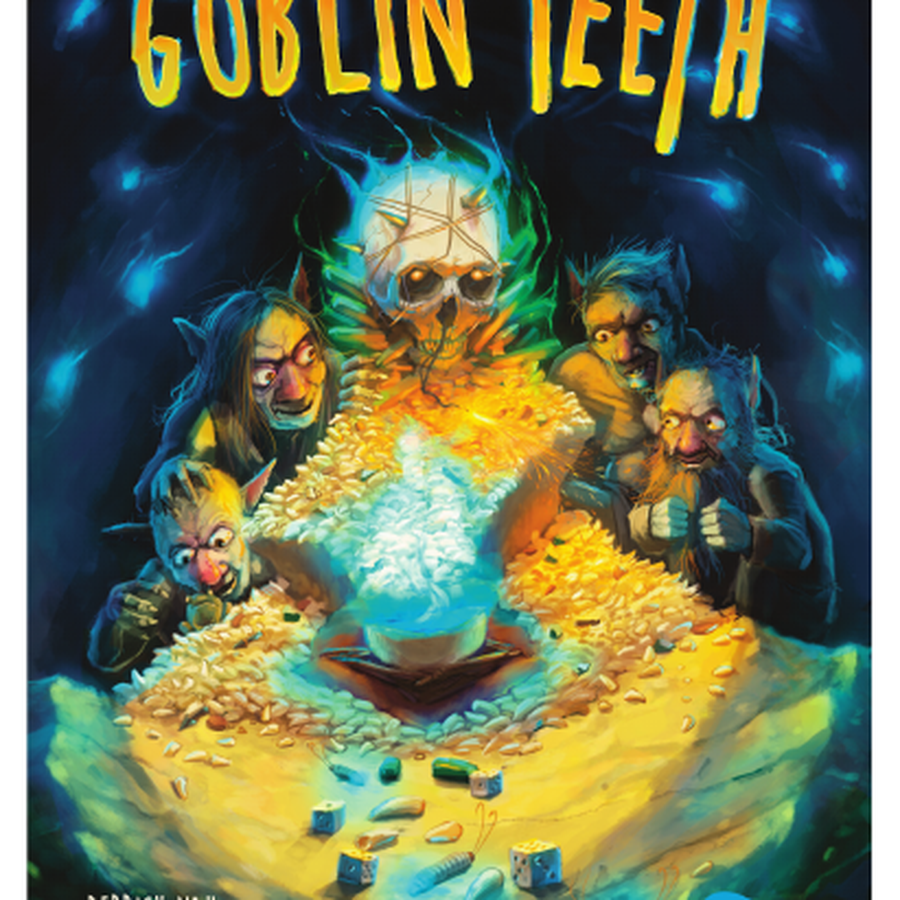
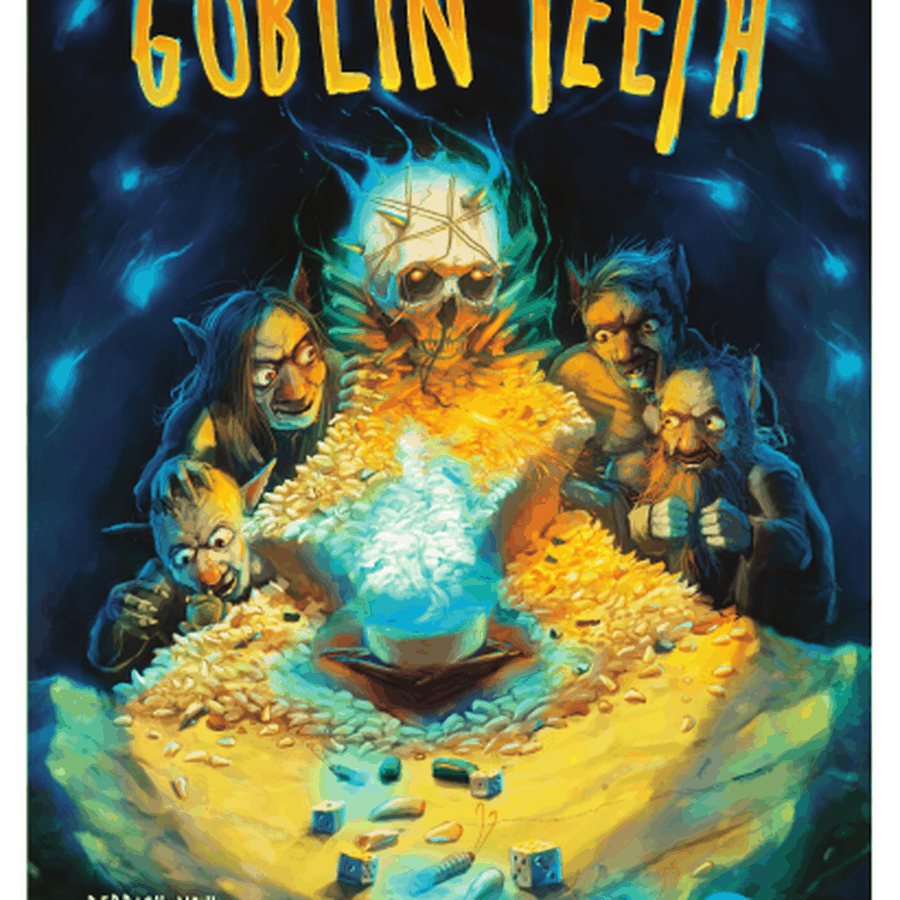
Audit SEO : titres, sitemap, og:image, llms.txt et textes des hubs corrigés
- Titres : le suffixe « | Print & Play Game » n'est ajouté que s'il tient dans 60 caractères (344 titres trop longs, il en reste 7 à 61–64).
- Sitemap : lastmod ne prend plus la date du build ; les listes prennent la date de leur élément le plus récent, les pages fixes n'en ont plus.
- og:image sur les fiches jeux, puzzles, règles et articles ; données structurées des puzzles et des règles complétées (description, image, date).
- Meta descriptions des pages créateurs coupées sur un mot entier.
- Nouveau /llms.txt généré depuis la liste blanche des hubs.
- noindex sur printandplaygame.pages.dev et les URL de prévisualisation.
- Bingo : le conseil d'impression ne dit plus de jeter la page des cartes d'appel ; les modèles vierges n'affichent plus « Answers: Included » (fiches et générateur).
- Hubs : onze affirmations contredites par les données corrigées (âges Halloween et labyrinthes, 172 points, joueurs des party games, plateaux, dés…).
- 12 couvertures de 700 Ko à 1 Mo recompressées (public/img passe de 23 à 16 Mo).
- Rapport complet : docs/15-audit-seo.md.

Claude-Session: https://claude.ai/code/session_01ByA7YvRJ2QJe9kC859nLwE

diff --git a/src/pages/sitemap.xml.ts b/src/pages/sitemap.xml.ts
@@ -9,16 +9,17 @@ const fmt = (d: Date) => d.toISOString().slice(0, 10);
 
 export const GET: APIRoute = async () => {
   const urls: { loc: string; lastmod?: string; priority: string }[] = [];
-  const today = fmt(new Date());
-  urls.push({ loc: '/', lastmod: today, priority: '1.0' });
-  for (const p of ['/how-to-print/', '/about/', '/find-a-game/', '/creators/', '/legal-notice/', '/privacy/']) urls.push({ loc: p, lastmod: today, priority: '0.5' });
+  // lastmod must only move when the page really changes (Google ignores it otherwise): listings take the date of
+  // their newest item, fixed pages have none.
+  urls.push({ loc: '/', priority: '1.0' });
+  for (const p of ['/how-to-print/', '/about/', '/find-a-game/', '/creators/', '/legal-notice/', '/privacy/']) urls.push({ loc: p, priority: '0.5' });
 
   const hubs = await getCollection('hubs');
   for (const hub of hubs) {
     const { items } = await hubListing(hub);
     if (items.length < Math.max(hub.data.min_items, THIN_THRESHOLD)) continue;
     const last = items.reduce((m, i) => Math.max(m, i.sortDate), 0);
-    urls.push({ loc: hubUrl(hub.data.path), lastmod: last ? fmt(new Date(last)) : today, priority: hub.data.path.includes('/') ? '0.7' : '0.8' });
+    urls.push({ loc: hubUrl(hub.data.path), lastmod: last ? fmt(new Date(last)) : undefined, priority: hub.data.path.includes('/') ? '0.7' : '0.8' });
   }
   for (const g of await getCollection('games')) if (g.data.status === 'published') urls.push({ loc: gameUrl(g), lastmod: fmt(g.data.date_added), priority: '0.6' });
   for (const p of await getCollection('puzzles')) if (p.data.status === 'published') urls.push({ loc: puzzleUrl(p), lastmod: fmt(p.data.date_added), priority: '0.6' });
@@ -26,13 +27,19 @@ export const GET: APIRoute = async () => {
   const posts = await livePosts();
   if (posts.length) urls.push({ loc: '/blog/', lastmod: fmt(posts[0].data.publish_at), priority: '0.7' });
   for (const p of posts) urls.push({ loc: postUrl(p), lastmod: fmt(p.data.updated_at ?? p.data.publish_at), priority: '0.6' });
-  for (const c of Object.keys(BLOG_CATEGORY_LABEL)) if (posts.filter((p) => p.data.category === c).length >= 3) urls.push({ loc: blogCategoryUrl(c), lastmod: today, priority: '0.4' });
-  urls.push({ loc: '/site-map/', lastmod: today, priority: '0.3' });
+  for (const c of Object.keys(BLOG_CATEGORY_LABEL)) {
+    const inCat = posts.filter((p) => p.data.category === c);
+    if (inCat.length >= 3) urls.push({ loc: blogCategoryUrl(c), lastmod: fmt(inCat[0].data.publish_at), priority: '0.4' });
+  }
+  urls.push({ loc: '/site-map/', priority: '0.3' });
   const games = await getCollection('games');
   for (const c of await getCollection('creators')) {
-    const n = games.filter((g) => g.data.creator?.id === c.id && g.data.status === 'published').length;
-    if (n >= 2) urls.push({ loc: creatorUrl(c.id), lastmod: today, priority: '0.4' });
+    const own = games.filter((g) => g.data.creator?.id === c.id && g.data.status === 'published');
+    const last = own.reduce((m, g) => Math.max(m, g.data.date_added.getTime()), 0);
+    if (own.length >= 2) urls.push({ loc: creatorUrl(c.id), lastmod: fmt(new Date(last)), priority: '0.4' });
   }
+  // Home page: the newest dated URL above.
+  urls[0].lastmod = urls.reduce((m, u) => (u.lastmod && u.lastmod > m ? u.lastmod : m), '') || undefined;
 
   const body = `<?xml version="1.0" encoding="UTF-8"?>\n<urlset xmlns="http://www.sitemaps.org/schemas/sitemap/0.9">\n${urls
     .map((u) => `  <url><loc>${SITE_URL}${u.loc}</loc>${u.lastmod ? `<lastmod>${u.lastmod}</lastmod>` : ''}<priority>${u.priority}</priority></url>`)

diff --git a/src/pages/llms.txt.ts b/src/pages/llms.txt.ts
@@ -1,0 +1,45 @@
+import type { APIRoute } from 'astro';
+import { getCollection } from 'astro:content';
+import { hubListing, THIN_THRESHOLD } from '../lib/hubs';
+import { SITE_URL } from '../lib/seo';
+import { hubUrl, rulesUrl } from '../lib/taxonomy';
+import { livePosts, postUrl } from '../lib/blog';
+
+// llms.txt (https://llmstxt.org): a plain-text map of the site for AI assistants. Built from the same hub
+// whitelist as the sitemap, so it never lists a thin or noindex page.
+export const GET: APIRoute = async () => {
+  const hubs = (await getCollection('hubs')).sort((a, b) => a.data.path.localeCompare(b.data.path));
+  const sections: string[] = [];
+  for (const hub of hubs) {
+    const { items } = await hubListing(hub);
+    if (items.length < Math.max(hub.data.min_items, THIN_THRESHOLD)) continue;
+    const indent = hub.data.path.includes('/') ? '  ' : '';
+    sections.push(`${indent}- [${hub.data.h1}](${SITE_URL}${hubUrl(hub.data.path)}): ${hub.data.seo_description} (${items.length} items)`);
+  }
+  const rules = (await getCollection('rules')).filter((r) => r.data.status === 'published').sort((a, b) => a.data.title.localeCompare(b.data.title));
+  const posts = await livePosts();
+  const body = [
+    '# Print & Play Game',
+    '',
+    '> Free print and play board games, card games, escape games and printable puzzles (mazes, word searches, bingo cards, sudoku, dot to dots) as PDFs, plus plain-English rules for classic games. Every game is credited to its designer, with its licence; PDFs are hosted only when the licence allows it, otherwise the page links to the creator\'s own download.',
+    '',
+    'The mazes, word searches, bingo cards and other puzzles marked "Made by Print & Play Game" are our own work, licensed CC BY-NC 4.0. Player counts, play times and ages come from the creator\'s page or BoardGameGeek.',
+    '',
+    '## Sections',
+    '',
+    ...sections,
+    '',
+    '## Game rules',
+    '',
+    ...rules.map((r) => `- [${r.data.title}](${SITE_URL}${rulesUrl(r)})`),
+    ...(posts.length ? ['', '## Guides', '', ...posts.map((p) => `- [${p.data.title}](${SITE_URL}${postUrl(p)}): ${p.data.description}`)] : []),
+    '',
+    '## About',
+    '',
+    `- [How to print board games at home](${SITE_URL}/how-to-print/)`,
+    `- [About the site](${SITE_URL}/about/)`,
+    `- [Full site map](${SITE_URL}/site-map/)`,
+    '',
+  ].join('\n');
+  return new Response(body, { headers: { 'Content-Type': 'text/plain; charset=utf-8' } });
+};

diff --git a/src/lib/seo.ts b/src/lib/seo.ts
@@ -1,8 +1,11 @@
 export const SITE_NAME = 'Print & Play Game';
 export const SITE_URL = 'https://printandplaygame.com';
 
+// Google cuts titles at about 60 characters and already shows the site name above each result,
+// so the brand suffix is only added when it fits.
 export function pageTitle(t: string): string {
-  return t.includes(SITE_NAME) ? t : `${t} | ${SITE_NAME}`;
+  const full = `${t} | ${SITE_NAME}`;
+  return t.includes(SITE_NAME) || full.length > 60 ? t : full;
 }
 export function breadcrumbLd(items: { name: string; href: string }[]) {
   return {

diff --git a/scripts/puzzles/build_batch.py b/scripts/puzzles/build_batch.py
@@ -53,7 +53,7 @@ def write_entry(item, type_, folder, pages, grid, count, body_pdf, difficulty=No
         f"pages: {pages}",
         'paper: "both"',
         'colour: "bw"',
-        "answers_included: true",
+        f"answers_included: {'false' if 'blank-template' in item['themes'] else 'true'}",
     ]
     if count:
         fm.append(f"count: {count}")

diff --git a/docs/15-audit-seo.md b/docs/15-audit-seo.md
@@ -1,0 +1,171 @@
+# Audit SEO du 19 octobre 2026
+
+Site audité : https://printandplaygame.com, 355 URL dans le sitemap, le jour de l'inscription à Google Search Console.
+
+Méthode : crawl complet du site compilé (`dist/`, 381 pages HTML, script dans le scratchpad de la session), contrôle du site en ligne avec `curl` (codes HTTP, redirections, en-têtes, robots.txt, accès des robots d'IA), relecture des 34 hubs et de leurs FAQ face aux données des fiches, vérification d'un échantillon de 15 fiches jeux face à leur source et à BoardGameGeek.
+
+Limite : l'état réel de l'indexation (pages découvertes, explorées, indexées, exclues) ne se voit que dans Search Console. Il faudra exporter le rapport *Pages* dans deux semaines environ pour compléter cet audit.
+
+
+## En bref
+
+La base technique est saine. Aucun lien interne cassé, aucune page orpheline, aucun titre en double, des URL canoniques correctes partout, un sitemap qui correspond exactement aux pages indexables, et toutes les pages à 2 clics maximum de l'accueil.
+
+Les défauts trouvés étaient surtout des détails répétés sur des centaines de pages (titres trop longs, dates du sitemap qui bougeaient à chaque build) et des affirmations inexactes dans les textes des hubs. Ils sont corrigés dans ce lot, sauf ceux qui demandent une action dans Cloudflare ou une décision (voir plus bas).
+
+Le vrai chantier qui reste est éditorial : les hubs, qui visent les plus gros volumes de recherche, n'ont qu'une vingtaine de mots de texte propre.
+
+
+## 1. Indexabilité
+
+| Point vérifié | Résultat |
+|---|---|
+| robots.txt | Correct. Bloque seulement les URL à paramètres et `/search/`, déclare le sitemap. |
+| Robots d'IA (GPTBot, OAI-SearchBot, ClaudeBot, PerplexityBot, CCBot) et Bingbot | Tous reçoivent un 200 (test avec leur signature). Cloudflare ne les bloque pas. |
+| http → https | 301, correct. |
+| URL sans slash final, `index.html` | 308 vers l'URL canonique, correct. |
+| Page inexistante | Vrai 404, correct. |
+| Anciennes URL de dot to dot supprimées | 301 vers leur remplaçant, correct. |
+| Sitemap | 355 URL, aucune en noindex, aucune page indexable oubliée. Identique au site en ligne. |
+| Pages en noindex | 26 : recherche, 404, une catégorie de blog trop maigre et 23 pages créateurs avec un seul jeu. Choix cohérent. |
+| **www.printandplaygame.com** | **Répond 200 au lieu de rediriger.** La balise canonical limite les dégâts, mais une redirection 301 est la règle. À faire dans Cloudflare (section 8). |
+| **printandplaygame.pages.dev** | **Copie complète du site, accessible et indexable.** Corrigé : en-tête `X-Robots-Tag: noindex` sur ce domaine et sur les URL de prévisualisation (`public/_headers`). |
+
+La publication programmée des articles fonctionne : le workflow GitHub tourne bien toutes les heures sur la branche de production.
+
+
+## 2. Balises techniques
+
+**Titres.** 344 titres sur 355 dépassaient 60 caractères, à cause du suffixe « | Print & Play Game » (20 caractères) ajouté partout. Google coupe vers 60 caractères et affiche déjà le nom du site au-dessus de chaque résultat. Le suffixe n'est désormais ajouté que s'il tient (`src/lib/seo.ts`). Il reste 7 titres entre 61 et 64 caractères, ce qui est acceptable.
+
+**Meta descriptions.** Toutes présentes et uniques. 220 dépassent 160 caractères, parce qu'elles reprennent le résumé de la fiche (jusqu'à 220 caractères) suivi des infos pratiques. Google coupera la fin, ou réécrira la description, ce qu'il fait de toute façon souvent. Non corrigé : priorité basse.
+
+Les descriptions des pages créateurs étaient coupées au milieu d'un mot (« …the whole family can play, f »). Corrigé : elles s'arrêtent sur la première phrase ou sur un mot entier.
+
+**Canonical, robots, langue.** Corrects sur toutes les pages. Pas de hreflang tant que la version française n'existe pas, ce qui est normal.
+
+**Données structurées** (le code invisible qui décrit la page aux moteurs) : toutes valides en JSON.
+
+| Type | Pages | Remarque |
+|---|---|---|
+| BreadcrumbList (fil d'Ariane) | 376 | Correct |
+| CreativeWork | 236 | Les puzzles n'avaient ni description, ni image, ni date : ajoutées. |
+| Product | 124 | Voir la question 1 en fin de rapport. |
+| Article (règles) | 63 | Image ajoutée. |
+| CollectionPage (hubs) | 36 | Correct |
+| FAQPage | 23 | Correct, mais 13 hubs n'ont pas de FAQ (section 4). |
+| WebSite | 1 | Contient une `SearchAction` que Google n'utilise plus depuis fin 2024. Sans effet négatif, laissée. |
+
+**Images de partage.** Aucune page n'avait de balise `og:image` (l'image affichée quand on partage le lien, et un signal pour Google Discover). Ajoutée sur les 300 fiches qui ont une couverture.
+
+**Sitemap, champ lastmod.** La date de mise à jour de l'accueil, des pages fixes et des pages créateurs était celle du jour du build : elle changeait à chaque déploiement sans que la page change. Google finit par ignorer ce champ quand il n'est pas fiable. Corrigé : les listes prennent la date de leur élément le plus récent, les pages fixes n'ont plus de date.
+
+
+## 3. Maillage interne
+
+Le maillage est solide. Toutes les pages du sitemap reçoivent au moins 3 liens internes, aucune n'est à plus de 2 clics de l'accueil, et aucun lien ne pointe vers une page inexistante ou vers une URL avec paramètres.
+
+Les liens sortants sont tous en `nofollow`, comme prévu par la règle de la maison.
+
+Une piste d'amélioration : les liens des fiches vers les hubs passent surtout par le fil d'Ariane et les étiquettes. Un lien dans le texte (« more Halloween printables ») vers le hub d'occasion ou de thème, avec une ancre descriptive, renforcerait les hubs saisonniers.
+
+
+## 4. Contenu
+
+### Exactitude des hubs
+
+Les FAQ et les introductions des 34 hubs ont été comparées aux données des fiches qu'ils listent. Onze affirmations étaient fausses ou dépassées, toutes corrigées :
+
+| Hub | Erreur | Correction |
+|---|---|---|
+| Halloween | « Le dot to dot citrouille et le bingo dès 4–5 ans » : les deux sont classés 6–8 ans. | Les dot to dots fantôme et chauve-souris et le labyrinthe facile pour les 4–5 ans, le reste dès 6 ans. |
+| Dot to dot | « Jusqu'à 90 points » : les puzzles experts vont jusqu'à 172. | 172 dans l'intro et la description. |
+| Party games | « 5 à 30 joueurs » : six jeux du hub se jouent à moins de 5. | 2 à 30 joueurs. |
+| Labyrinthes, labyrinthes moyens | « 6 à 9 ans » : 4 labyrinthes moyens sur 10 sont pour les 9–13 ans. | 6 à 12 ans. |
+| Été | « Des labyrinthes océan » : il n'y en a aucun, et un seul labyrinthe d'été. | Liste réelle du hub. |
+| Noël | Bingo « pour 6 à 30 personnes » : le PDF a 20 cartes. | 6 à 20 personnes. |
+| Bingo | « Chaque PDF a des cartes uniques et une feuille d'appel » : faux pour les deux modèles vierges. | Précisé. |
+| Plateaux imprimables | « Chaque plateau est relié à ses règles » : une dizaine (shogi, xiangqi, fox and geese, shut the box…) n'ont pas de lien vers une page de règles. | « quand nous en avons une ». |
+| Règles, règles jeux de plateau, papier-crayon | « Tous les jeux du domaine public ont un plateau ou une feuille » : faux pour le backgammon, les dames chinoises, Sim, Sprouts et la plupart des jeux de cartes. | « La plupart », avec les exceptions nommées. |
+| Roll and write | « Une page et deux dés » : certains jeux demandent 6 ou 7 dés et plusieurs feuilles. | « Une page ou deux et une poignée de dés ». |
+| Jeux de cartes | Cribbage et la bataille « faits pour deux » : ils se jouent à 2–4. | Nuancé. |
+
+Deux erreurs trouvées sur les pages puzzles elles-mêmes :
+
+- Les modèles de bingo vierges affichaient « Answers: Included » alors qu'il n'y a rien à corriger. Corrigé dans les fiches et dans le générateur (`scripts/puzzles/build_batch.py`).
+- Le conseil d'impression de toutes les pages bingo disait de ne pas imprimer la dernière page « pour cacher la solution ». Or cette page contient les cartes à appeler, indispensables pour jouer. Le texte dépend maintenant du type de puzzle.
+
+### Exactitude des fiches jeux (échantillon de 15)
+
+<!-- résultats de l'échantillon -->
+
+### Profondeur du contenu des hubs
+
+C'est le point faible principal. Les hubs visent les requêtes les plus recherchées (« word search printable », « printable bingo cards », « dot to dot »), mais leur texte propre se limite à une introduction de 15 à 50 mots. Seuls 5 hubs ont un paragraphe de plus, et 13 n'ont pas de FAQ : mots mêlés, bingo, puzzles, dot to dot, les trois niveaux de labyrinthes, jeux de dés, party games, chasse au trésor, roll and write, jeux pour 2 et jeux pour enfants.
+
+Le reste de la page est une grille de cartes, identique dans sa structure à celle des concurrents. Pour Google comme pour les IA, une page qui n'explique rien donne peu de raisons d'être citée.
+
+Recommandation : pour les 6 hubs aux plus gros volumes (mots mêlés, bingo, puzzles, dot to dot, chasse au trésor, Halloween puis Noël), ajouter sous la grille un court guide de 150 à 300 mots (comment choisir, par âge ou par usage) et 3 à 4 questions de FAQ. Ces textes doivent rester factuels et s'appuyer sur ce que contient vraiment le hub.
+
+### Fraîcheur
+
+Aucun texte daté ou périmé trouvé dans les hubs, en dehors du nombre de points des dot to dots. Le site a moins d'une semaine, la fraîcheur deviendra un sujet dans quelques mois. Pour les règles et les fiches, il faudra un champ « mis à jour le » le jour où une fiche est revue, pour que la date affichée et celle du sitemap reflètent une vraie mise à jour.
+
+
+## 5. Lisibilité par les IA
+
+Bonne base. Tout le texte est dans le HTML livré au navigateur, sans JavaScript nécessaire pour le lire. Les fiches commencent par un résumé d'une phrase, suivi des faits clés (joueurs, durée, pages, licence) dans une liste structurée. Les règles suivent un plan fixe avec une FAQ. Les robots d'IA ne sont pas bloqués.
+
+Ajouté : un fichier `/llms.txt` généré au build. C'est un plan du site en texte brut pour les assistants IA, construit à partir des mêmes hubs que le sitemap. Google a déclaré ne pas l'utiliser, et son effet sur les autres assistants n'est pas démontré. Il ne coûte rien et ne peut pas nuire.
+
+Ce qui aiderait le plus les IA, c'est la même chose que pour Google : des hubs qui répondent à une question (« quel labyrinthe pour un enfant de 5 ans ? ») en une ou deux phrases claires, que l'IA peut reprendre en citant la source.
+
+
+## 6. Performance
+
+Le HTML est léger (10 à 13 Ko par page), avec une seule feuille de style de 33 Ko et des polices auto-hébergées. Les images des grilles sont chargées en différé (`loading="lazy"`).
+
+Douze couvertures dépassaient 700 Ko (jusqu'à 1 Mo), dont Dracula's Feast, Brains! et Night of the Mummy, affichées sur la page Halloween. Elles ont été recompressées en PNG 256 couleurs, sans différence visible, soit 3 à 4 fois plus légères. Le dossier `public/img/` passe de 23 à 16 Mo.
+
+
+## 7. Corrections faites dans ce lot
+
+| Fichier | Changement |
+|---|---|
+| `src/lib/seo.ts` | Suffixe du titre seulement s'il tient dans 60 caractères. |
+| `src/layouts/Base.astro`, `GamePage`, `PuzzlePage`, règles, blog | Balise `og:image` à partir de la couverture. |
+| `src/components/PuzzlePage.astro` | Conseil d'impression selon le type de puzzle, données structurées complétées. |
+| `src/pages/rules/[slug].astro` | Image dans les données structurées. |
+| `src/pages/creators/[slug].astro` | Meta description sans mot coupé. |
+| `src/pages/sitemap.xml.ts` | lastmod fiable. |
+| `src/pages/llms.txt.ts` | Nouveau fichier `/llms.txt`. |
+| `public/_headers` | noindex sur pages.dev et les prévisualisations. |
+| 13 fichiers de `src/content/hubs/` | Affirmations corrigées (section 4). |
+| 2 fiches bingo vierges et `scripts/puzzles/build_batch.py` | Pas de corrigé. |
+| `src/content/hubs/puzzles__mazes__hard.md`, `src/pages/how-to-print.astro` | Titres raccourcis. |
+| 12 images de `public/img/games/` | Recompressées. |
+
+Ces corrections sont sur la branche `claude/fervent-turing-5cvddc`. Elles seront en ligne quand elles seront fusionnées dans la branche de production (`ccr-205f3937-62xvhk`).
+
+
+## 8. À faire dans les tableaux de bord (Anthony)
+
+**Redirection www → sans www.** Cloudflare Pages ne sait pas le faire avec le fichier `_redirects`. La méthode officielle passe par les *Bulk Redirects* : créer une liste avec la source `www.printandplaygame.com`, la cible `https://printandplaygame.com`, le code 301, et cocher *preserve query string*, *subpath matching*, *preserve path suffix* et *include subdomains*. Ensuite, créer la règle qui utilise cette liste. L'enregistrement DNS `www` doit rester proxifié (nuage orange). Guide : https://developers.cloudflare.com/pages/how-to/www-redirect/
+
+**Bing Webmaster Tools.** Sur https://www.bing.com/webmasters, page *My Sites*, bouton *Import* : on se connecte avec le compte Google, Bing reprend le site déjà vérifié et son sitemap. Les données apparaissent sous 48 heures.
+
+**IndexNow via Cloudflare.** Dans Cloudflare, *Caching → Configuration → Crawler Hints*, activer l'option. Cloudflare prévient alors Bing et les autres moteurs compatibles IndexNow à chaque changement de contenu, sans rien coder. Gratuit sur tous les plans.
+
+**Search Console.** Le sitemap est envoyé. Pour les demandes manuelles, l'ordre conseillé est : d'abord l'accueil, Halloween, les mots mêlés, le bingo, les puzzles et Thanksgiving, puis Noël et les autres hubs principaux (détail dans la conversation du 19 octobre).
+
+
+## 9. Questions ouvertes
+
+1. **Données structurées `Product` sur les fiches jeux.** Elles déclarent une offre à 0 $ « en stock », alors que le site ne vend rien et que le téléchargement est souvent sur le site du créateur. Google réserve ses fiches marchandes aux pages où l'on peut acheter, avec un prix supérieur à zéro. Au mieux, le prix « gratuit » peut apparaître dans le résultat. Au pire, Search Console affichera des avertissements « Fiches de marchand », et Google peut juger le balisage trompeur. Je recommande de le retirer et de garder `CreativeWork`, mais c'était un choix noté dans `docs/06`. À trancher.
+2. **Âges des sudokus enfants.** Les pages disent « 4×4 dès 5 ans » et « 6×6 pour les 8–12 ans », alors que les fiches sont classées 6–8 et 9–13 ans. Lequel est juste : le texte ou le classement ?
+3. **Textes des hubs.** Est-ce que je rédige les guides et FAQ des 6 hubs prioritaires (section 4) ? Ce sont des ajouts éditoriaux importants, d'où la question avant de les faire.
+
+
+## 10. Prochain audit
+
+Dans deux semaines environ : export du rapport *Pages* de Search Console (pages indexées et exclues, avec leur motif) et du rapport *Performances* (premières requêtes et impressions). Ce sera l'occasion de vérifier l'indexation réelle et de choisir les pages à renforcer selon les requêtes qui apparaissent.

diff --git a/src/content/hubs/puzzles__mazes.md b/src/content/hubs/puzzles__mazes.md
@@ -2,13 +2,13 @@
 path: "puzzles/mazes"
 title: "Mazes"
 h1: "Printable mazes, easy to hard"
-lead: "Free mazes to print at home, sorted by difficulty. Easy mazes for children from age 3, medium mazes for 6 to 9 year-olds, and hard mazes that keep teens and adults busy. Black and white, one maze per page, solution on the last page."
+lead: "Free mazes to print at home, sorted by difficulty. Easy mazes for children from age 3, medium mazes for 6 to 12 year-olds, and hard mazes that keep teens and adults busy. Black and white, one maze per page, solution on the last page."
 seo_title: "Printable mazes: free easy, medium and hard mazes (PDF)"
 seo_description: "Free printable mazes by difficulty: easy mazes for preschoolers, medium mazes for kids, hard mazes for adults. Black and white PDFs with solutions."
 collection: "puzzles"
 filter: {"type": "maze"}
 related: [{"label": "Dot to dot", "href": "/puzzles/dot-to-dot/"}, {"label": "Word search", "href": "/puzzles/word-search/"}]
-faq: [{"q": "Which maze difficulty for which age?", "a": "Easy mazes have wide paths and a single route, ideal from age 3. Medium mazes add dead ends for 6 to 9 year-olds. Hard mazes use thin walls and several false exits; expect ten minutes or more, even for adults."}, {"q": "Are the solutions included?", "a": "Yes, on the last page of each PDF. Print one page fewer to keep the solution hidden."}, {"q": "Can I use these mazes in class?", "a": "Yes. Our mazes are Creative Commons BY-NC: print as many as you need for your classroom."}]
+faq: [{"q": "Which maze difficulty for which age?", "a": "Easy mazes have wide paths and a single route, ideal from age 3. Medium mazes add dead ends for 6 to 12 year-olds. Hard mazes use thin walls and several false exits; expect ten minutes or more, even for adults."}, {"q": "Are the solutions included?", "a": "Yes, on the last page of each PDF. Print one page fewer to keep the solution hidden."}, {"q": "Can I use these mazes in class?", "a": "Yes. Our mazes are Creative Commons BY-NC: print as many as you need for your classroom."}]
 ---
 
 ## Which maze for which age?

diff --git a/src/content/hubs/rules__board-games.md b/src/content/hubs/rules__board-games.md
@@ -2,13 +2,13 @@
 path: "rules/board-games"
 title: "Board games"
 h1: "Board game rules: how to play classic board games"
-lead: "Chess, checkers, backgammon, go, mancala, ludo and other classic board games explained step by step. The public-domain games come with a free printable board."
+lead: "Chess, checkers, backgammon, go, mancala, ludo and other classic board games explained step by step. Most public-domain games come with a free printable board."
 seo_title: "Board game rules: classic board games with printable boards"
 seo_description: "How to play classic board games: chess, checkers, backgammon, go, mancala, ludo, snakes and ladders, reversi. Clear rules and free printable boards."
 collection: "rules"
 filter: {"category": "board"}
 related: [{"label": "Card game rules", "href": "/rules/card-games/"}, {"label": "Printable board games", "href": "/board-games/"}, {"label": "Pen and paper games", "href": "/rules/pen-and-paper/"}]
-faq: [{"q": "Can I print the board?", "a": "Yes, for every public-domain game: chess, checkers, go 9×9, mancala, ludo, snakes and ladders, nine men's morris and reversi have a one-page board to print. Connect Four is a trademark, so it has rules only."}, {"q": "Which classic board game is easiest to learn?", "a": "Snakes and ladders and ludo need no strategy, so they work from age 4 or 5. Checkers and mancala are the next step; chess and go take a few games to click."}]
+faq: [{"q": "Can I print the board?", "a": "For most of them: chess, checkers, go 9×9, mancala, ludo, snakes and ladders, nine men's morris and reversi have a one-page board to print. Backgammon and Chinese checkers have rules only for now; Connect Four is a trademark, so rules only."}, {"q": "Which classic board game is easiest to learn?", "a": "Snakes and ladders and ludo need no strategy, so they work from age 4 or 5. Checkers and mancala are the next step; chess and go take a few games to click."}]
 ---
 
 ## Classic board games worth knowing

diff --git a/src/content/hubs/rules.md b/src/content/hubs/rules.md
@@ -2,13 +2,13 @@
 path: "rules"
 title: "Game rules"
 h1: "Game rules: how to play the classics"
-lead: "Setup, turn by turn rules, scoring and variants for classic card, board and dice games. Public-domain games come with a printable board or score sheet."
+lead: "Setup, turn by turn rules, scoring and variants for classic card, board and dice games. Many public-domain games come with a printable board or score sheet."
 seo_title: "Board game rules and card game rules: how to play the classics"
 seo_description: "How to play classic card, board and dice games: clear rules, setup, scoring and variants, with free printable boards and score sheets for public-domain games."
 collection: "rules"
 filter: {}
 related: [{"label": "Card games", "href": "/card-games/"}, {"label": "Board games", "href": "/board-games/"}]
-faq: [{"q": "Are these the official rules?", "a": "For traditional games (rummy, checkers, dominoes) there are no official rules, only common ones; we describe the most widely played version and list the variants. For published games we summarise the publisher's rulebook and link to it."}, {"q": "Can I print the game itself?", "a": "When the game is in the public domain (checkers, chess, dots and boxes, battleship) we provide a printable board or sheet. Trademarked games get a rules page only."}]
+faq: [{"q": "Are these the official rules?", "a": "For traditional games (rummy, checkers, dominoes) there are no official rules, only common ones; we describe the most widely played version and list the variants. For published games we summarise the publisher's rulebook and link to it."}, {"q": "Can I print the game itself?", "a": "For many public-domain games (checkers, chess, dots and boxes, battleship) we provide a printable board or sheet. Trademarked games get a rules page only."}]
 ---
 
 

diff --git a/src/content/hubs/rules__card-games.md b/src/content/hubs/rules__card-games.md
@@ -8,7 +8,7 @@ seo_description: "How to play classic card games: Go Fish, Rummy, Gin Rummy, Hea
 collection: "rules"
 filter: {"category": "card"}
 related: [{"label": "Board game rules", "href": "/rules/board-games/"}, {"label": "Dice game rules", "href": "/rules/dice-games/"}, {"label": "Printable card games", "href": "/card-games/"}]
-faq: [{"q": "What do I need to play these card games?", "a": "A standard 52-card deck covers almost every game here. Canasta uses two decks plus jokers; UNO, Phase 10 and Skip-Bo need their own branded decks."}, {"q": "Which card games are best for two players?", "a": "Gin Rummy, Cribbage, Speed and War are built for two. Use the \"2 players\" filter to see them all."}, {"q": "Can I print a score sheet?", "a": "Yes. Rummy, Gin Rummy, Canasta, Hearts, Spades, Euchre, Golf, Thirty-One and Cribbage each come with a free score sheet."}]
+faq: [{"q": "What do I need to play these card games?", "a": "A standard 52-card deck covers almost every game here. Canasta uses two decks plus jokers; UNO, Phase 10 and Skip-Bo need their own branded decks."}, {"q": "Which card games are best for two players?", "a": "Gin Rummy and Speed are built for two; Cribbage and War are at their best with two. Use the \"2 players\" filter to see them all."}, {"q": "Can I print a score sheet?", "a": "Yes. Rummy, Gin Rummy, Canasta, Hearts, Spades, Euchre, Golf, Thirty-One and Cribbage each come with a free score sheet."}]
 ---
 
 ## Where to start

diff --git a/src/content/hubs/occasions__summer.md b/src/content/hubs/occasions__summer.md
@@ -2,13 +2,13 @@
 path: "occasions/summer"
 title: "Summer"
 h1: "Free printable summer games"
-lead: "Beach scavenger hunts, ocean mazes, summer word searches and travel games to print before the holidays."
+lead: "Beach scavenger hunts, ocean dot to dots, a summer maze, word searches and road trip bingo to print before the holidays."
 seo_title: "Printable summer games and travel activities (free PDF)"
 seo_description: "Free printable summer games: beach scavenger hunt, ocean and fish puzzles, summer word search and road trip bingo for the holidays."
 collection: "mixed"
 filter: {"occasion": "summer"}
 related: [{"label": "All occasions", "href": "/occasions/"}, {"label": "Bingo cards", "href": "/bingo/"}, {"label": "Puzzles", "href": "/puzzles/"}]
-faq: [{"q": "What can I print for a long car journey?", "a": "Road trip bingo, a word search and a couple of mazes fit on a clipboard and keep children busy for an hour."}]
+faq: [{"q": "What can I print for a long car journey?", "a": "Road trip bingo, a word search, a maze and a dot to dot fit on a clipboard and keep children busy for an hour."}]
 ---
 
 

diff --git a/src/content/hubs/puzzles__dot-to-dot.md b/src/content/hubs/puzzles__dot-to-dot.md
@@ -2,9 +2,9 @@
 path: "puzzles/dot-to-dot"
 title: "Dot to dot"
 h1: "Printable dot to dot puzzles"
-lead: "Connect the dots to reveal the picture: number and letter dot to dots, from first counting to 90-dot animals. The dots sit on the corners of the picture, so the shape stays a surprise."
+lead: "Connect the dots to reveal the picture: number and letter dot to dots, from first counting to 172-dot expert pictures. The dots sit on the corners of the picture, so the shape stays a surprise."
 seo_title: "Free printable dot to dot puzzles: connect the dots sheets (PDF)"
-seo_description: "Free dot to dot printables: connect the dots by number or letter, from 10 dots for preschoolers to 90 dots for teens. PDFs with the finished picture."
+seo_description: "Free dot to dot printables: connect the dots by number or letter, from 10 dots for preschoolers to 172 dots for adults. PDFs with the finished picture."
 collection: "puzzles"
 filter: {"type": "dot-to-dot"}
 related: [{"label": "Mazes", "href": "/puzzles/mazes/"}, {"label": "Word search", "href": "/puzzles/word-search/"}]

diff --git a/src/content/hubs/occasions__christmas.md b/src/content/hubs/occasions__christmas.md
@@ -8,7 +8,7 @@ seo_description: "Free Christmas printable games: Christmas bingo cards, word se
 collection: "mixed"
 filter: {"occasion": "christmas"}
 related: [{"label": "All occasions", "href": "/occasions/"}, {"label": "Bingo cards", "href": "/bingo/"}, {"label": "Puzzles", "href": "/puzzles/"}]
-faq: [{"q": "What Christmas games can I print for a group?", "a": "Christmas bingo is the easiest for 6 to 30 people: one card each and a caller. Word searches and mazes suit quiet time; the Christmas light scavenger hunt works in the car."}, {"q": "Are the answers included?", "a": "Yes, every puzzle PDF has its answer key on the last page."}]
+faq: [{"q": "What Christmas games can I print for a group?", "a": "Christmas bingo is the easiest for 6 to 20 people: one card each (the PDF has 20 unique cards) and a caller. Word searches and mazes suit quiet time; the Christmas light scavenger hunt works in the car."}, {"q": "Are the answers included?", "a": "Yes, every puzzle PDF has its answer key on the last page."}]
 ---
 
 
